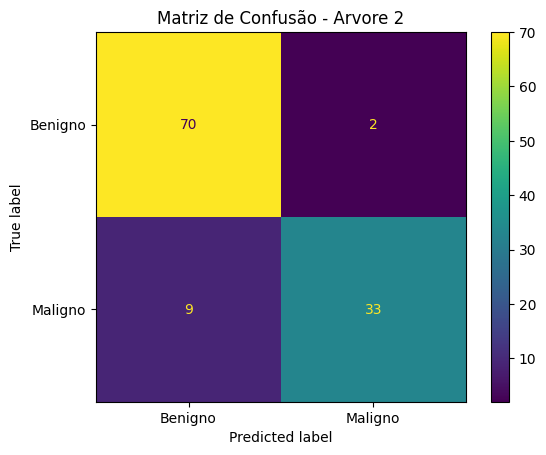
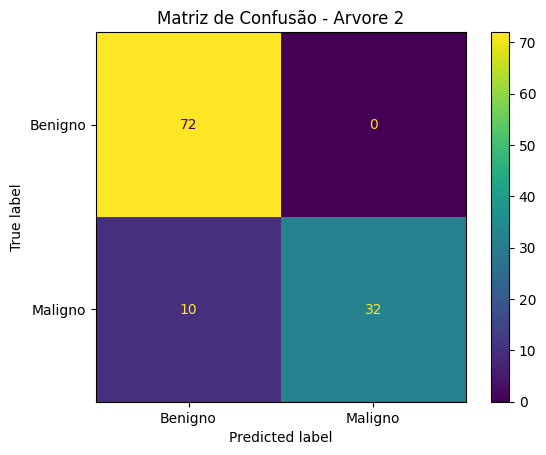
exclusão campo id

diff --git a/main.py b/main.py
@@ -50,6 +50,7 @@ df = pd.read_csv(
     names=colunas
 )
 
+
 ## ETAPA 1 - classificação dos dados 
 df["diagnosis"] = df["diagnosis"].map({
     "B": 0,
@@ -59,7 +60,7 @@ df["diagnosis"] = df["diagnosis"].map({
 ## X = variáveis de entrada, todos os atributos menos o diagnóstico
 ## y = diagnóstico, variável de saída que estamos tentando prever
 
-X = df.drop(columns=["diagnosis"])
+X = df.drop(columns=["diagnosis", "id"])
 y = df["diagnosis"]
 
 ## TREINO E TESTE
@@ -183,7 +184,7 @@ for config in arvores:
 
     graph.render(
         filename=nome_arquivo,
-        format="pdf",
+        format="png",
         cleanup=True
     )
 
